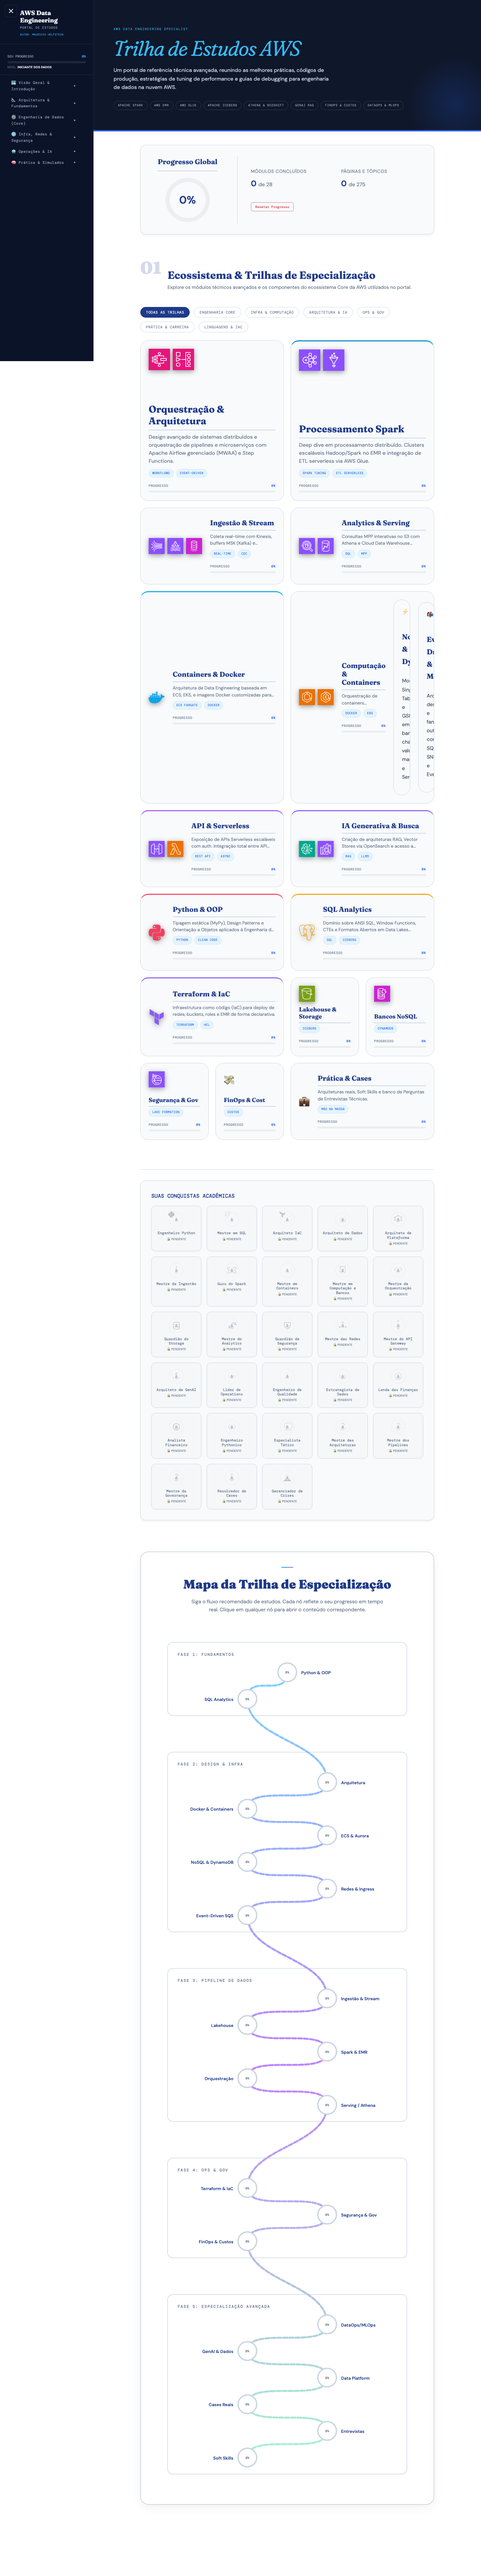
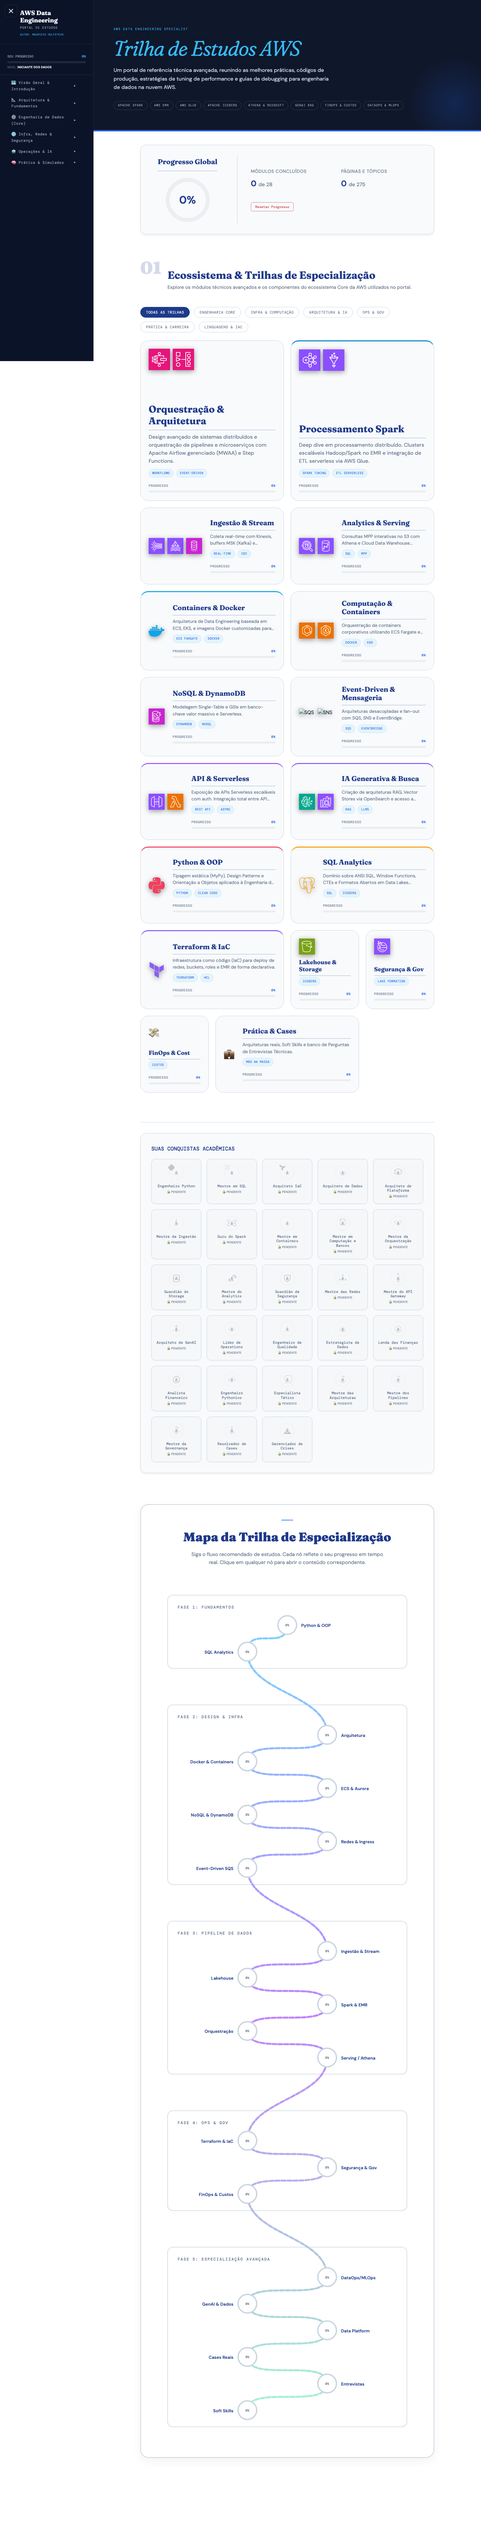
fix: Resolve layout of bento cards and drawio diagram parsing bug

diff --git a/pages/fundamentos/plataforma-dados.html b/pages/fundamentos/plataforma-dados.html
@@ -435,7 +435,7 @@
       
       <div class="drawio-wrap" style="margin-top: 30px; margin-bottom: 30px;">
         <div class="drawio-label"><span class="dot"></span>MODERN DATA PLATFORM TOPOLOGY (SELF-SERVICE)</div>
-        <div class="drawio-diagram" data-mxgraph='{"highlight": "#FF6B00", "lightbox": false, "nav": false, "resize": true, "toolbar": "zoom", "page": 0, "xml": "<mxGraphModel background=\"#080f1e\" dx=\"1\" dy=\"1\" grid=\"0\" gridSize=\"10\" guides=\"0\" tooltips=\"1\" connect=\"0\" arrows=\"0\" fold=\"0\" page=\"0\" pageScale=\"1\" pageWidth=\"900\" pageHeight=\"400\" math=\"0\" shadow=\"0\"><root><mxCell id=\"0\"/><mxCell id=\"1\" parent=\"0\"/><mxCell id=\"bg\" value=\"\" style=\"rounded=0;fillColor=#080f1e;strokeColor=none;\" vertex=\"1\" parent=\"1\"><mxGeometry x=\"0\" y=\"0\" width=\"900\" height=\"400\" as=\"geometry\"/></mxCell><mxCell id=\"gIngest\" value=\"INGESTION\" style=\"rounded=1;arcSize=3;fillColor=#1a0e00;strokeColor=#FF6B00;strokeWidth=1.5;dashed=1;verticalAlign=top;align=center;fontColor=#64748b;fontFamily=DM Sans;fontSize=10;fontStyle=1;labelBackgroundColor=none;spacingTop=4;\" vertex=\"1\" parent=\"1\"><mxGeometry x=\"40\" y=\"60\" width=\"140\" height=\"280\" as=\"geometry\"/></mxCell><mxCell id=\"msk\" value=\"Amazon MSK&#10;(Streaming)\" style=\"shape=mxgraph.aws4.resourceIcon;resIcon=mxgraph.aws4.managed_streaming_for_kafka;fillColor=#FF6B00;strokeColor=none;fontColor=#e2e8f0;fontFamily=DM Sans;fontSize=10;verticalLabelPosition=bottom;verticalAlign=top;\" vertex=\"1\" parent=\"1\"><mxGeometry x=\"85\" y=\"100\" width=\"48\" height=\"48\" as=\"geometry\"/></mxCell><mxCell id=\"dms\" value=\"AWS DMS&#10;(CDC)\" style=\"shape=mxgraph.aws4.resourceIcon;resIcon=mxgraph.aws4.database_migration_service;fillColor=#FF6B00;strokeColor=none;fontColor=#e2e8f0;fontFamily=DM Sans;fontSize=10;verticalLabelPosition=bottom;verticalAlign=top;\" vertex=\"1\" parent=\"1\"><mxGeometry x=\"85\" y=\"220\" width=\"48\" height=\"48\" as=\"geometry\"/></mxCell><mxCell id=\"gStorage\" value=\"LAKEHOUSE STORAGE\" style=\"rounded=1;arcSize=3;fillColor=#021606;strokeColor=#16a34a;strokeWidth=1.5;dashed=1;verticalAlign=top;align=center;fontColor=#64748b;fontFamily=DM Sans;fontSize=10;fontStyle=1;labelBackgroundColor=none;spacingTop=4;\" vertex=\"1\" parent=\"1\"><mxGeometry x=\"240\" y=\"60\" width=\"140\" height=\"280\" as=\"geometry\"/></mxCell><mxCell id=\"s3\" value=\"Amazon S3&#10;(Iceberg)\" style=\"shape=mxgraph.aws4.resourceIcon;resIcon=mxgraph.aws4.s3;fillColor=#16a34a;strokeColor=none;fontColor=#e2e8f0;fontFamily=DM Sans;fontSize=10;verticalLabelPosition=bottom;verticalAlign=top;\" vertex=\"1\" parent=\"1\"><mxGeometry x=\"285\" y=\"160\" width=\"48\" height=\"48\" as=\"geometry\"/></mxCell><mxCell id=\"gProc\" value=\"COMPUTE &amp; PROCESSING\" style=\"rounded=1;arcSize=3;fillColor=#1a1600;strokeColor=#eab308;strokeWidth=1.5;dashed=1;verticalAlign=top;align=center;fontColor=#64748b;fontFamily=DM Sans;fontSize=10;fontStyle=1;labelBackgroundColor=none;spacingTop=4;\" vertex=\"1\" parent=\"1\"><mxGeometry x=\"440\" y=\"60\" width=\"140\" height=\"280\" as=\"geometry\"/></mxCell><mxCell id=\"emr\" value=\"EMR Serverless&#10;(Spark/Flink)\" style=\"shape=mxgraph.aws4.resourceIcon;resIcon=mxgraph.aws4.emr;fillColor=#eab308;strokeColor=none;fontColor=#e2e8f0;fontFamily=DM Sans;fontSize=10;verticalLabelPosition=bottom;verticalAlign=top;\" vertex=\"1\" parent=\"1\"><mxGeometry x=\"485\" y=\"100\" width=\"48\" height=\"48\" as=\"geometry\"/></mxCell><mxCell id=\"glue\" value=\"AWS Glue&#10;(Serverless ETL)\" style=\"shape=mxgraph.aws4.resourceIcon;resIcon=mxgraph.aws4.glue;fillColor=#eab308;strokeColor=none;fontColor=#e2e8f0;fontFamily=DM Sans;fontSize=10;verticalLabelPosition=bottom;verticalAlign=top;\" vertex=\"1\" parent=\"1\"><mxGeometry x=\"485\" y=\"220\" width=\"48\" height=\"48\" as=\"geometry\"/></mxCell><mxCell id=\"gServe\" value=\"SERVING &amp; DISCOVERY\" style=\"rounded=1;arcSize=3;fillColor=#020e1a;strokeColor=#0284c7;strokeWidth=1.5;dashed=1;verticalAlign=top;align=center;fontColor=#64748b;fontFamily=DM Sans;fontSize=10;fontStyle=1;labelBackgroundColor=none;spacingTop=4;\" vertex=\"1\" parent=\"1\"><mxGeometry x=\"640\" y=\"60\" width=\"140\" height=\"280\" as=\"geometry\"/></mxCell><mxCell id=\"ath\" value=\"Amazon Athena&#10;(SQL Engine)\" style=\"shape=mxgraph.aws4.resourceIcon;resIcon=mxgraph.aws4.athena;fillColor=#0284c7;strokeColor=none;fontColor=#e2e8f0;fontFamily=DM Sans;fontSize=10;verticalLabelPosition=bottom;verticalAlign=top;\" vertex=\"1\" parent=\"1\"><mxGeometry x=\"685\" y=\"100\" width=\"48\" height=\"48\" as=\"geometry\"/></mxCell><mxCell id=\"datazone\" value=\"Amazon DataZone&#10;(Data Portal)\" style=\"shape=mxgraph.aws4.resourceIcon;resIcon=mxgraph.aws4.datazone;fillColor=#0284c7;strokeColor=none;fontColor=#e2e8f0;fontFamily=DM Sans;fontSize=10;verticalLabelPosition=bottom;verticalAlign=top;\" vertex=\"1\" parent=\"1\"><mxGeometry x=\"685\" y=\"220\" width=\"48\" height=\"48\" as=\"geometry\"/></mxCell><mxCell id=\"e1\" value=\"Write\" style=\"edgeStyle=orthogonalEdgeStyle;rounded=1;orthogonalLoop=1;strokeColor=#FF6B00;strokeWidth=1.5;fillColor=none;fontColor=#94a3b8;fontFamily=DM Sans;fontSize=9;exitX=1;exitY=0.5;entryX=0;entryY=0.25;\" edge=\"1\" source=\"msk\" target=\"s3\" parent=\"1\"><mxGeometry relative=\"1\" as=\"geometry\"/></mxCell><mxCell id=\"e2\" value=\"Write\" style=\"edgeStyle=orthogonalEdgeStyle;rounded=1;orthogonalLoop=1;strokeColor=#FF6B00;strokeWidth=1.5;fillColor=none;fontColor=#94a3b8;fontFamily=DM Sans;fontSize=9;exitX=1;exitY=0.5;entryX=0;entryY=0.75;\" edge=\"1\" source=\"dms\" target=\"s3\" parent=\"1\"><mxGeometry relative=\"1\" as=\"geometry\"/></mxCell><mxCell id=\"e3\" value=\"Read/Write\" style=\"edgeStyle=orthogonalEdgeStyle;rounded=1;orthogonalLoop=1;strokeColor=#16a34a;strokeWidth=1.5;fillColor=none;fontColor=#94a3b8;fontFamily=DM Sans;fontSize=9;exitX=1;exitY=0.25;entryX=0;entryY=0.5;\" edge=\"1\" source=\"s3\" target=\"emr\" parent=\"1\"><mxGeometry relative=\"1\" as=\"geometry\"/></mxCell><mxCell id=\"e4\" value=\"Read/Write\" style=\"edgeStyle=orthogonalEdgeStyle;rounded=1;orthogonalLoop=1;strokeColor=#16a34a;strokeWidth=1.5;fillColor=none;fontColor=#94a3b8;fontFamily=DM Sans;fontSize=9;exitX=1;exitY=0.75;entryX=0;entryY=0.5;\" edge=\"1\" source=\"s3\" target=\"glue\" parent=\"1\"><mxGeometry relative=\"1\" as=\"geometry\"/></mxCell><mxCell id=\"e5\" value=\"Query\" style=\"edgeStyle=orthogonalEdgeStyle;rounded=1;orthogonalLoop=1;strokeColor=#eab308;strokeWidth=1.5;fillColor=none;fontColor=#94a3b8;fontFamily=DM Sans;fontSize=9;exitX=1;exitY=0.5;entryX=0;entryY=0.5;\" edge=\"1\" source=\"emr\" target=\"ath\" parent=\"1\"><mxGeometry relative=\"1\" as=\"geometry\"/></mxCell><mxCell id=\"e6\" value=\"Publish\" style=\"edgeStyle=orthogonalEdgeStyle;rounded=1;orthogonalLoop=1;strokeColor=#eab308;strokeWidth=1.5;fillColor=none;fontColor=#94a3b8;fontFamily=DM Sans;fontSize=9;exitX=1;exitY=0.5;entryX=0;entryY=0.5;\" edge=\"1\" source=\"glue\" target=\"datazone\" parent=\"1\"><mxGeometry relative=\"1\" as=\"geometry\"/></mxCell></root></mxGraphModel>"}'></div>
+        <div class="drawio-diagram" style="max-width:100%;border:1px solid transparent;" data-mxgraph='{"highlight":"#FF6B00","nav":true,"resize":true,"toolbar":"zoom layers tags lightbox","edit":"_blank","url":"https://raw.githubusercontent.com/Helfstein-one/aws-data-mastery/main/assets/diagrams/data-platform-e2e.drawio"}'></div>
       </div>
       <div class="diagram-legend" style="margin-top: 15px; font-size: 0.9em; color: var(--muted); border-left: 4px solid var(--accent); padding: 15px; background: #0f172a; border-radius: 8px; border: 1px solid #1e293b; margin-bottom: 30px;">
         <strong style="color: var(--accent);">Explicação:</strong>

diff --git a/index.html b/index.html
@@ -506,28 +506,29 @@
             <p class="bento-desc">Orquestração de containers corporativos utilizando ECS Fargate e Amazon EKS (Kubernetes).</p>
             <div class="bento-tags"><span class="bento-tag">Docker</span><span class="bento-tag">K8s</span></div>
           </div>
-        <div class="bento-card bento-small bento-item infra" data-bento-module="dynamodb" onclick="location.href='pages/fundamentos/nosql-dynamodb.html'">
-          <div class="bento-card-header">
-            <span class="icon">⚡</span>
-            <h3>NoSQL & DynamoDB</h3>
+        </div>
+
+        <div class="bento-card bento-large bento-item infra" data-bento-module="dynamodb" onclick="location.href='pages/fundamentos/nosql-dynamodb.html'">
+          <div class="bento-icon-group">
+            <img src="assets/aws-icons/DynamoDB.png" alt="DynamoDB">
           </div>
-          <p>Modelagem Single-Table e GSIs em banco-chave valor massivo e Serverless.</p>
-          <div class="progress-bar-container">
-            <div class="progress-bar-fill" id="progress-bar-dynamodb"></div>
+          <div class="bento-content">
+            <h3 class="bento-title">NoSQL &amp; DynamoDB</h3>
+            <p class="bento-desc">Modelagem Single-Table e GSIs em banco-chave valor massivo e Serverless.</p>
+            <div class="bento-tags"><span class="bento-tag">DynamoDB</span><span class="bento-tag">NoSQL</span></div>
           </div>
         </div>
 
-        <div class="bento-card bento-small bento-item infra" data-bento-module="mensageria" onclick="location.href='pages/fundamentos/event-driven-mensageria.html'">
-          <div class="bento-card-header">
-            <span class="icon">📬</span>
-            <h3>Event-Driven & Mensageria</h3>
+        <div class="bento-card bento-large bento-item infra" data-bento-module="mensageria" onclick="location.href='pages/fundamentos/event-driven-mensageria.html'">
+          <div class="bento-icon-group">
+            <img src="assets/aws-icons/SimpleQueueService.png" alt="SQS">
+            <img src="assets/aws-icons/SimpleNotificationService.png" alt="SNS">
           </div>
-          <p>Arquiteturas desacopladas e fan-out com SQS, SNS e EventBridge.</p>
-          <div class="progress-bar-container">
-            <div class="progress-bar-fill" id="progress-bar-mensageria"></div>
+          <div class="bento-content">
+            <h3 class="bento-title">Event-Driven &amp; Mensageria</h3>
+            <p class="bento-desc">Arquiteturas desacopladas e fan-out com SQS, SNS e EventBridge.</p>
+            <div class="bento-tags"><span class="bento-tag">SQS</span><span class="bento-tag">EventBridge</span></div>
           </div>
-        </div>
-
         </div>
 
         <!-- 6. API Gateway (LARGE) -->
@@ -595,14 +596,7 @@
           </div>
         </div>
 
-        <!-- 9. Bancos NoSQL (SMALL) -->
-        <div class="bento-card  bento-small bento-item infra" data-bento-module="infra_operacional" onclick="location.href='pages/fundamentos/computacao-bancos.html'">
-          <div class="bento-icon-group"><img src="assets/aws-icons/DynamoDB.png" alt="DynamoDB"></div>
-          <div class="bento-content">
-            <h3 class="bento-title">Bancos NoSQL</h3>
-            <div class="bento-tags"><span class="bento-tag">DynamoDB</span></div>
-          </div>
-        </div>
+
 
         <!-- 10. Segurança (SMALL) -->
         <div class="bento-card  bento-small bento-item ops" data-bento-module="security" onclick="location.href='pages/fundamentos/governance-security.html'">
